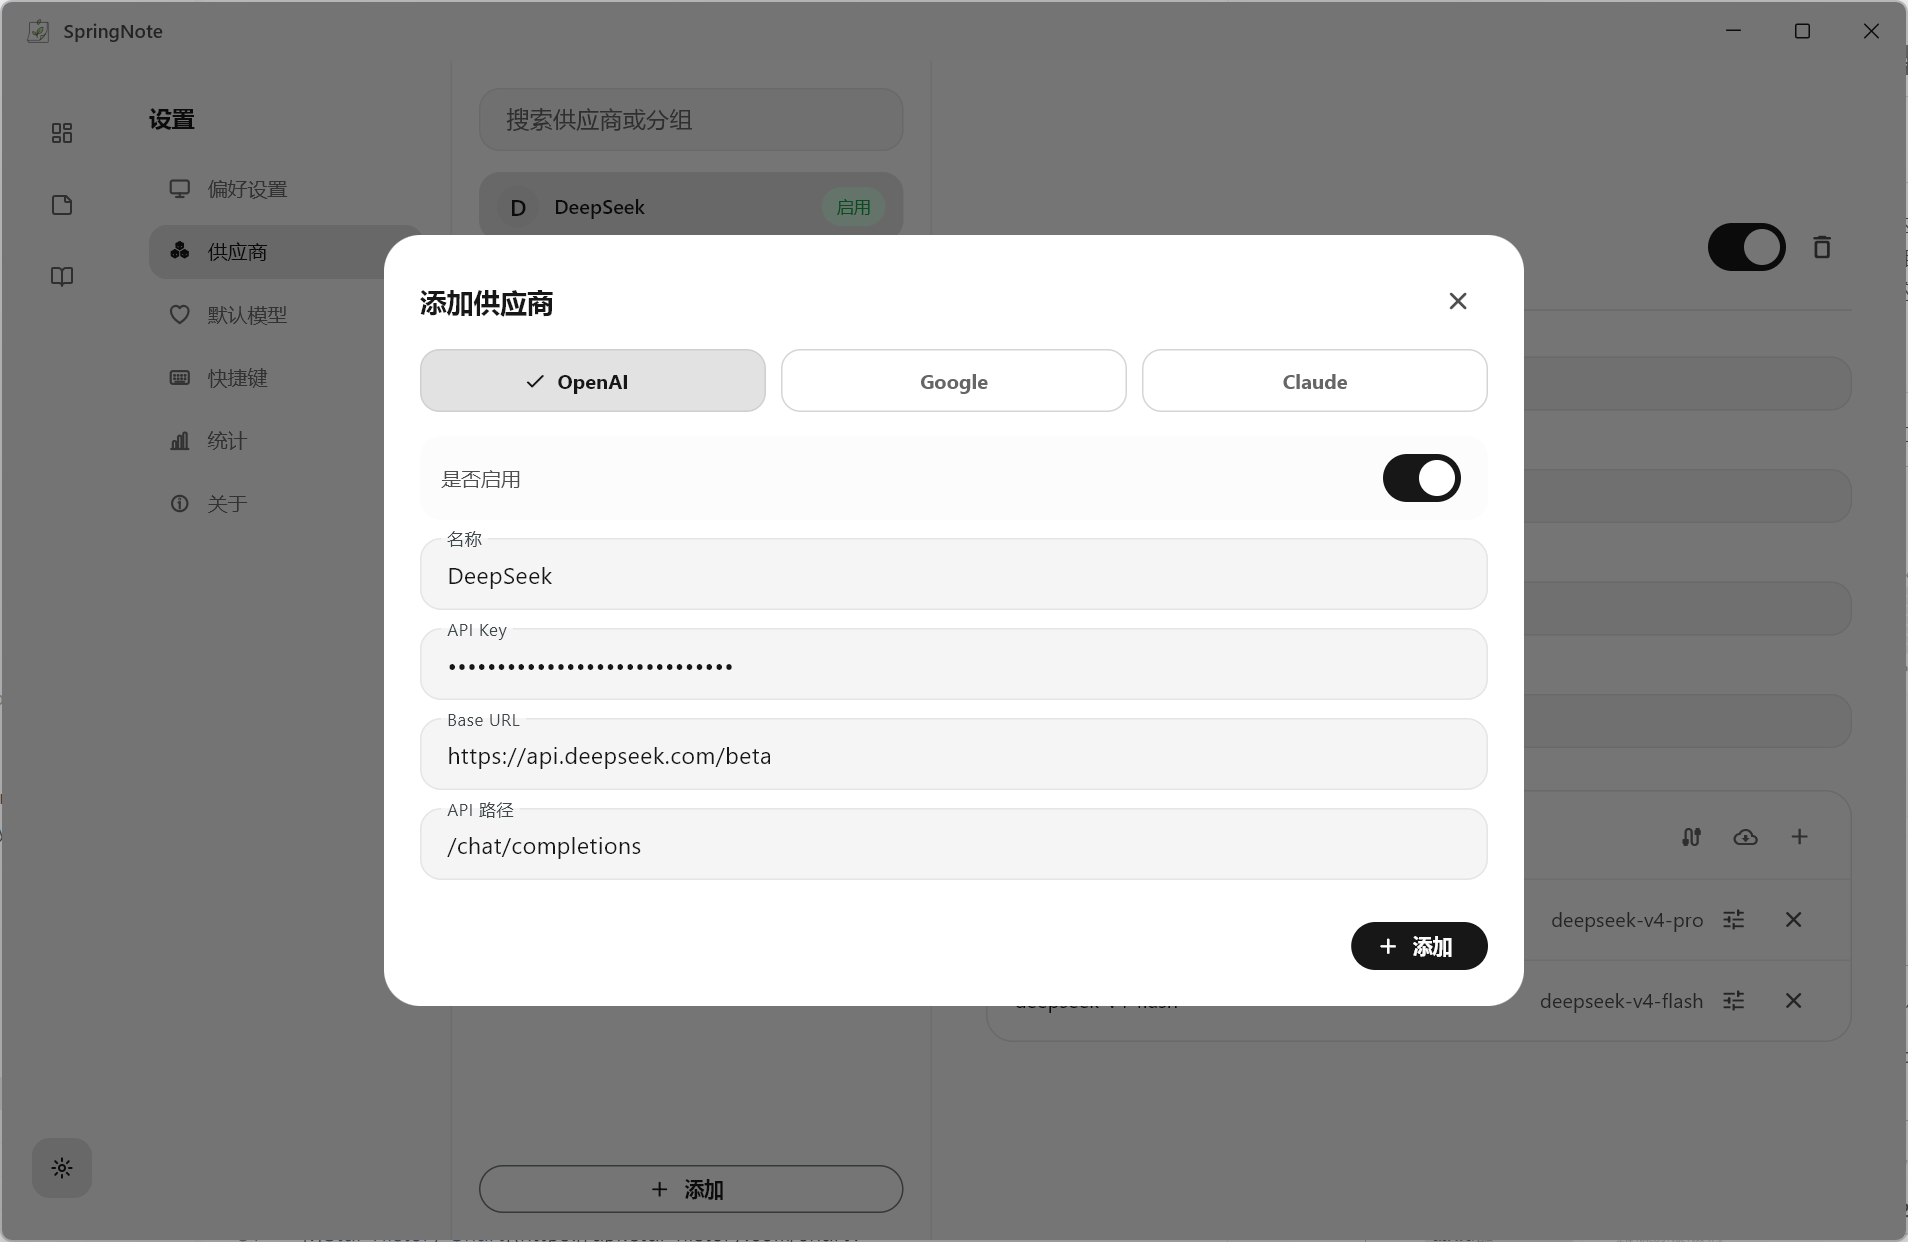
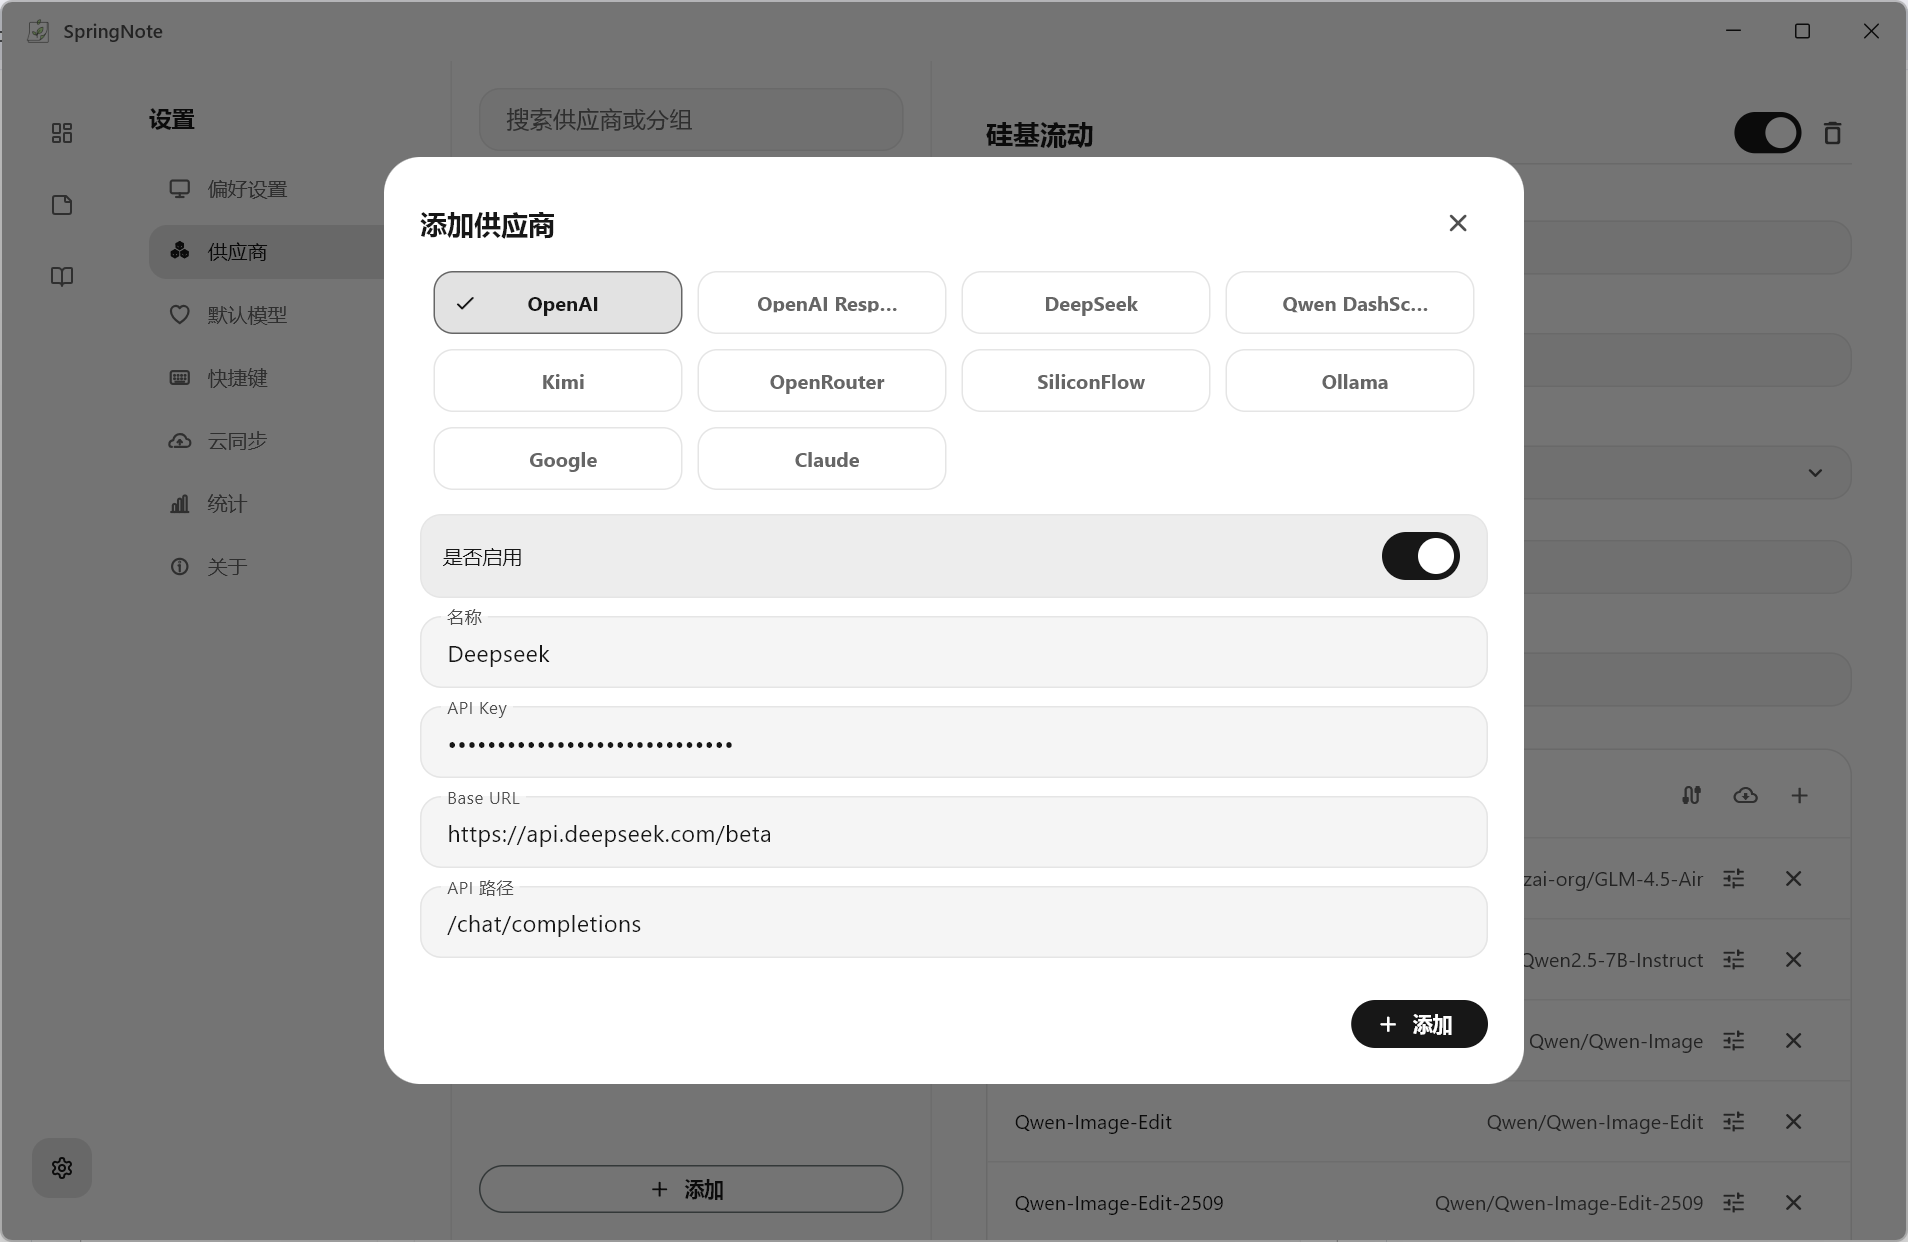
中文版文档完成

diff --git a/docs/guide/quick-start.md b/docs/guide/quick-start.md
@@ -1,30 +1,145 @@
 # 快速入门
 
-SpringNote 的功能由记录、整理和回顾三部分组成。AI 配置不是保存普通记录的前置条件。
+>SpringNote 核心功能由记录、整理和回顾三部分组成
 
 ## 第一步：确认数据位置
 
 首次使用时先确认数据保存目录。日报、周报、月报、图片和相关配置都会围绕这个目录保存；当前选择的普通文件不会复制进数据目录。
 
-## 第二步：保存第一条记录
+![数据目录](/images/datadir.png)
 
-1. 回到首页。
-2. 在快速输入框输入文字。
-3. 需要时粘贴图片或添加文件。
-4. 点击提交。
 
-提交后，输入会参与当天日报生成，图片会保存并插入可预览链接；文件目前只把文件名和路径加入本次输入，不会作为附件复制到数据目录。日报内容由 AI 合并结果或本地合并结果决定，不保证额外保留未经处理的原始输入副本。
+## 第二步：配置 AI
 
-## 第三步：整理日报
 
-打开笔记本并选择日报，在编辑模式补充上下文；分栏和预览模式用于查看 Markdown 渲染结果。日报保存具体事实和过程，周报、月报保存周期性整理结果。
+以 **DeepSeek** 为例进行配置说明：
 
-## 第四步：配置 AI
+#### ① 添加供应商 BaseURL请填写 https://api.deepseek.com/beta
 
-在设置中添加供应商，测试连接后获取或手动添加模型，再分别选择智能生成、编辑补全和回忆书模型。三种用途可以使用不同模型。
 
-配置完成后，可以在首页使用智能生成，在笔记本使用实时补全，在回忆书中搜索并询问历史记录。
+>
+> 此处填写`beta`原因是Deepseek的[FIM接口要求](https://api-docs.deepseek.com/zh-cn/guides/fim_completion)
+>
+>其他的OpenAI兼容接口请依据实际情况填写
+>
 
-## 第五步：建立回顾习惯
 
-每天用日报保存事实，每周整理周报，每月整理月报。遇到“我什么时候做过某件事”或“某段时间发生了什么”时，在回忆书中提问，而不是手动翻找所有文件。
+
+  ![第一步](/images/configone.png)
+
+#### ② 手动添加模型 deepseek-v4-flash
+
+>
+>因为Deepseek的`beta`接口不支持模型列表查询，所以需要手动添加模型
+>
+
+  ![第二步](/images/configtwo.png)
+
+#### ③ 编辑模型
+
+>
+>请手动勾选补全类型
+>
+
+
+  ![第三步](/images/configthree.png)
+
+#### ④ 选择默认模型
+
+>
+>如果你的模型不支持补全类型，则在编辑补全模型列表中不会出现该模型
+>
+
+  ![第四步](/images/configfour.png)
+
+## 第三步：完成第一次记录
+
+![首页](/images/index.png)
+### 在首页输入当天内容
+
+打开首页，在快速输入框中输入当天的工作记录、想法或待处理事项。文字内容会参与当天日报保存和首页三栏整理。
+
+图片可以通过图片按钮选择，也可以从剪贴板粘贴。图片提交后会保存到数据目录，并在日报中生成可预览的 Markdown 图片链接。
+
+文件按钮目前只把文件名称和路径加入本次输入。文件不会被复制到数据目录，应用也不会读取文件内容；路径信息不代表 AI 已经解析了文件。
+
+
+
+### 执行智能生成
+
+输入内容后点击“智能生成”。如果已配置可用的智能生成模型，应用会根据提示词设置整理首页三栏，并尝试将新增内容合并到当天日报。
+
+如果没有配置模型，或模型请求失败，文字和已保存的图片仍然可以保存，日报会使用本地合并结果。智能生成不是保存普通记录的前置条件。
+
+首页三栏显示当天整理结果。点击栏目卡片可以打开详情弹窗，查看该栏目中的完整条目。
+
+## 第四步：在笔记本中查看和编辑
+
+![笔记本](/images/note.png)
+
+进入“笔记本”后，可以在日报、周报和月报之间切换。日报按自然日保存，周报按 ISO 周保存，月报按自然月保存。
+
+选中记录后，编辑区会加载 Markdown 原文。编辑内容会自动保存，保存后列表中的标题、预览和搜索结果会同步更新。右上角可以切换“编辑”“分栏”和“预览”模式：
+
+- **编辑**：直接修改 Markdown 源文；
+- **分栏**：同时查看 Markdown 源文和渲染结果；
+- **预览**：只查看渲染后的内容。
+
+笔记本搜索只搜索当前选择的日报、周报或月报类型。搜索至少输入两个字符，结果最多返回 100 条；点击结果后可以打开对应的完整正文。
+
+## 第五步：使用回忆书
+
+![回忆书](/images/memories.png)
+
+进入“回忆书”后，可以直接询问已经保存的工作记录。回忆书会根据问题决定执行关键词搜索、按日期读取日报、读取周报或读取月报，再根据取得的内容生成回答。
+
+没有配置回忆书模型时，关键词搜索和记录读取仍然可用，但不会生成 AI 回答。回忆书不会自动修改日报、周报或月报。
+
+回忆书顶部的思考模式包含“关闭”“High”和“Max”。该设置只影响 AI 回答请求，不影响本地搜索和记录读取。
+
+点击右上角“开启新对话”会清空当前回忆书会话消息，并从空的上下文开始。该操作不会删除本地笔记、搜索索引或回忆书配置；当前应用不提供旧会话历史恢复功能。
+
+## 第六步：使用牛马时钟
+
+![牛马时钟](/images/components.png)
+
+在 Windows 或 macOS 上，SpringNote 可以显示独立的桌面组件。组件用于查看当前计时、当天工作时长和收益，并在主窗口之外控制计时。
+
+- 左键单击组件：开始或暂停计时；
+- 右键单击组件：打开主窗口并进入首页；
+- 左键拖动组件：移动窗口位置；
+- 圆球模式下将鼠标移入组件：展开组件；
+- 鼠标离开圆球有效区域：收起组件。
+
+组件位置会在拖动后保存，多显示器环境下会限制在可见工作区内。计时收益由设置中的每日工作时长和日薪换算，修改设置不会重算历史收益。
+
+## 第七步：配置常用功能
+
+完成基本记录后，可以在设置中继续配置：
+
+- **偏好设置**：个人信息、字体与显示、行为与启动、壁纸、托盘、数据保存、提示词和回忆书检索；
+- **供应商**：添加或关闭 AI 服务，测试连接并维护模型列表；
+- **默认模型**：分别选择智能生成、编辑补全和回忆书使用的模型；
+- **快捷键**：通过实际按键录入全局快捷键和输入快捷键；
+- **云同步**：配置 WebDAV 连接和同步时机；
+- **存储管理**：扫描、预览并清理不再被笔记引用的图片；
+- **统计**：查看热力图、笔记数量、AI 用量、工作时长和收益。
+
+## 需要帮助？
+
+无论你是在使用过程中遇到问题，还是有新的想法与建议，都欢迎与我们交流。
+
+我们会认真聆听每一条反馈，持续优化 SpringNote，让它变得更好。
+
+**加入 [SpringNote 官方交流群](https://qm.qq.com/q/c6QiowtYSA)，一起交流使用体验、分享想法。**
+
+>QQ群号：**463423961**
+
+>[!TIP]反馈问题时，请同时提供：
+>
+>- 当前版本号
+>- 操作步骤
+>- 是否能够稳定复现
+>- 相关截图或错误信息
+>
+>这些信息可以帮助快速定位问题。

diff --git a/docs/guide/updates.md b/docs/guide/updates.md
@@ -1,26 +1,147 @@
 # 更新与版本
 
+SpringNote 会持续优化功能体验、修复问题并提升稳定性。升级前建议查看对应版本更新日志，了解新增功能、行为变化以及可能需要重新确认的配置。
+
 ## 查看当前版本
 
-打开“设置 > 关于”查看当前版本、系统信息和项目链接。反馈问题时，请同时提供版本号、操作步骤和是否能够稳定复现。
+打开`设置 > 关于`即可查看当前版本、系统信息以及项目链接。
 
 ## 安装更新
 
-从项目发布页面下载与你的平台和架构匹配的安装包。安装前先退出正在运行的 SpringNote，尤其是使用桌面组件、托盘或正在同步时。
+请前往项目[发布页面](https://github.com/Radiant303/SpringNote/releases/latest)页面或者[QQ交流群](https://qm.qq.com/q/c6QiowtYSA)下载与你的平台和系统架构匹配的安装包。
 
-安装程序会更新应用文件，不会主动删除数据目录中的日报、周报、月报、图片和配置。数据目录是否存在其他备份由用户的系统和存储策略决定。
+更新前建议：
+
+1. 退出正在运行的 SpringNote。
+2. 如果正在使用桌面组件、托盘功能或同步功能，请等待相关操作完成。
+3. 根据自己的存储策略定期备份重要数据。
+
 
 ## 更新后检查
 
-首次启动新版时，应用可能需要检查已有数据或准备新的功能。进入主界面后可以检查：
+首次启动新版时，应用可能需要检查已有数据或初始化新功能。
 
-1. 数据目录仍然正确。
-2. 最近的日报和图片可以打开。
-3. 供应商和默认模型仍然存在。
-4. 快捷键、托盘和桌面组件符合预期。
+进入主界面后，建议确认：
 
-如果升级后某项 AI 功能不可用，先检查供应商连接和默认模型，不要直接删除原有配置。
+1. 数据目录是否正确。
+2. 最近的日报和图片是否能够正常打开。
+3. 供应商配置和默认模型是否仍然存在。
+4. 快捷键、托盘以及桌面组件是否符合预期。
 
-## 更新日志
+如果升级后部分 AI 功能不可用，请优先检查：
 
-更新日志记录新增功能、行为调整、兼容性变化和问题修复。升级前阅读对应版本可以提前了解设置是否需要重新确认。
+- 供应商连接状态
+- 默认模型配置
+- 网络连接情况
+
+不要直接删除原有配置。
+
+## v1.0.3（2026-07-10）
+
+### 深色模式、壁纸与 Markdown 编辑增强
+
+#### 界面优化
+
+- 优化便签编辑页右上角「已保存」与编辑预测提示的切换显示。
+- 优化 Markdown 渲染效果，改善标题、表格、公式、任务列表等内容展示。
+- 优化官网页面样式，完善配置教程。
+
+#### 功能新增
+
+- 新增深色模式支持，并适配 Windows/macOS 桌面组件。
+- 新增应用及桌面组件壁纸功能，支持：
+  - 默认背景
+  - 透明度调整
+  - 模糊效果
+  - 蒙版配置
+
+- 新增便签页编辑模式、分栏模式和预览模式。
+- Markdown 编辑器新增语法高亮功能，可在设置中开启或关闭，默认启用。
+- Markdown 渲染中的链接支持点击后使用浏览器打开。
+- 快捷键设置支持直接录入组合键，并支持重置和清除全局快捷键。
+- 新增存储管理功能，可扫描未被便签引用的图片并在确认后清理。
+
+#### 问题修复
+
+- 修复便签自动同步时上传对象遗漏的问题。
+- 修复回忆书本地降级检索中的工具调用上下文格式不兼容问题。
+- 修复 Markdown 表格、嵌套方括号以及部分链接解析异常。
+- 修复桌面组件高频拖动时状态循环、纯色切换异常以及字体缩放下控件边界异常。
+
+
+
+
+## v1.0.2（2026-07-03）
+
+### 新增 WebDAV 同步功能
+
+#### 界面优化
+
+- 优化快捷键设置页面结构，移除重复标题。
+- 优化设置页面样式，删除供应商时增加二次确认。
+
+#### 功能新增
+
+- 新增首页图片解析功能，支持图片内容识别。
+- 新增 WebDAV 同步功能。
+- 新增首页与回忆书快速提交快捷键。
+- 支持便签页面插入和预览图片。
+- 新增 Windows/macOS 应用内自动更新功能，并支持手动更新。
+- Windows 桌面组件新增跨重启位置持久化。
+- 新增回忆书页面 AI 能力配置功能。
+
+#### 问题修复
+
+- 修复 Windows 多次启动无法复用已有窗口的问题。
+- 修复便签搜索无法匹配完整内容的问题。
+- 修复百炼官方 DeepSeek 无法调用工具的问题。
+- 修复 AI 调用统计写入不完整的问题。
+- 修复启动时配置文件损坏导致应用崩溃的问题。
+- 修复桌面组件球形模式快速移动显示异常的问题。
+- 修复跨平台网络权限声明不一致的问题。
+
+
+
+
+## v1.0.1（2026-06-26）
+
+### 功能完善与跨平台支持
+
+#### 界面优化
+
+- 设置图标更换为轮廓风格齿轮图标。
+- 优化模型选择页面，支持按供应商分组展示模型。
+- 设置关于页面新增交流群联系方式。
+
+#### 功能新增
+
+- 支持自定义日报整理配置。
+- 支持 OpenAI Responses API。
+- 支持自定义配置文件存储目录。
+- 新增默认模型配置功能。
+- 新增附件文件路径上传功能。
+- 新增组件圆球化样式，并支持记忆组件位置。
+- 新增回忆书检索结果最大字符数配置。
+
+#### 问题修复
+
+- 修复切换日期时日期选择器按钮闪烁的问题。
+- 修复日报内容底部显示被截断的问题。
+- 修复启用 max 推理强度参数后请求异常的问题。
+- 修复模型选择列表冲突问题。
+- 修复打开便签日报页面无法自动生成日报的问题。
+
+#### 平台支持
+
+- 新增 macOS 平台支持。
+
+
+
+
+## v1.0.0（2026-06-21）
+
+### 首个正式版本
+
+- 实现应用更新功能。
+- 优化默认应用图标。
+- SpringNote 正式发布。

diff --git a/docs/guide/about.md b/docs/guide/about.md
@@ -3,3 +3,11 @@
 关于页面可以查看当前版本、系统信息、更新入口、项目链接和许可信息。
 
 遇到问题时，先记录当前版本和操作步骤，再查看更新日志中是否已有对应修复。升级应用不会主动删除数据目录中的日报、图片和配置。
+
+当然，无论你是在使用过程中遇到问题，还是有新的想法与建议，都欢迎与我们交流。
+
+我们会认真聆听每一条反馈，持续优化 SpringNote，让它变得更好。
+
+**加入 [SpringNote 官方交流群](https://qm.qq.com/q/c6QiowtYSA)，一起交流使用体验、分享想法。**
+
+>QQ群号：**463423961**

diff --git a/docs/guide/note-search.md b/docs/guide/note-search.md
@@ -14,7 +14,7 @@
 
 ## 结果规则
 
-结果最多返回 100 条。笔记本搜索结果按文档名称倒序排列，不按命中行或命中次数改变顺序；文档名称通常对应日期、ISO 周或月份，因此列表优先显示较新的记录。
+结果最多返回 100 条。笔记本搜索结果按文档名称倒序排列；文档名称通常对应日期、ISO 周或月份，因此列表优先显示较新的记录。
 
 搜索结果会显示文档标题、文件名称和预览信息。预览用于列表识别，内容较长时会截断；点击结果后，右侧编辑区加载完整正文。
 

diff --git a/docs/guide.md b/docs/guide.md
@@ -11,9 +11,9 @@
 
 ## 使用指南
 
-- [首页](/guide/home)
-- [笔记本](/guide/notes)
-- [回忆书](/guide/memory)
+- [首页](./guide/home-data)
+- [笔记本](./guide/daily)
+- [回忆书](./guide/memory-ai)
 - [设置](/guide/settings)
 
 设置中的各个功能分组有独立说明页，更细的功能条目写在页面正文和本页目录中。
